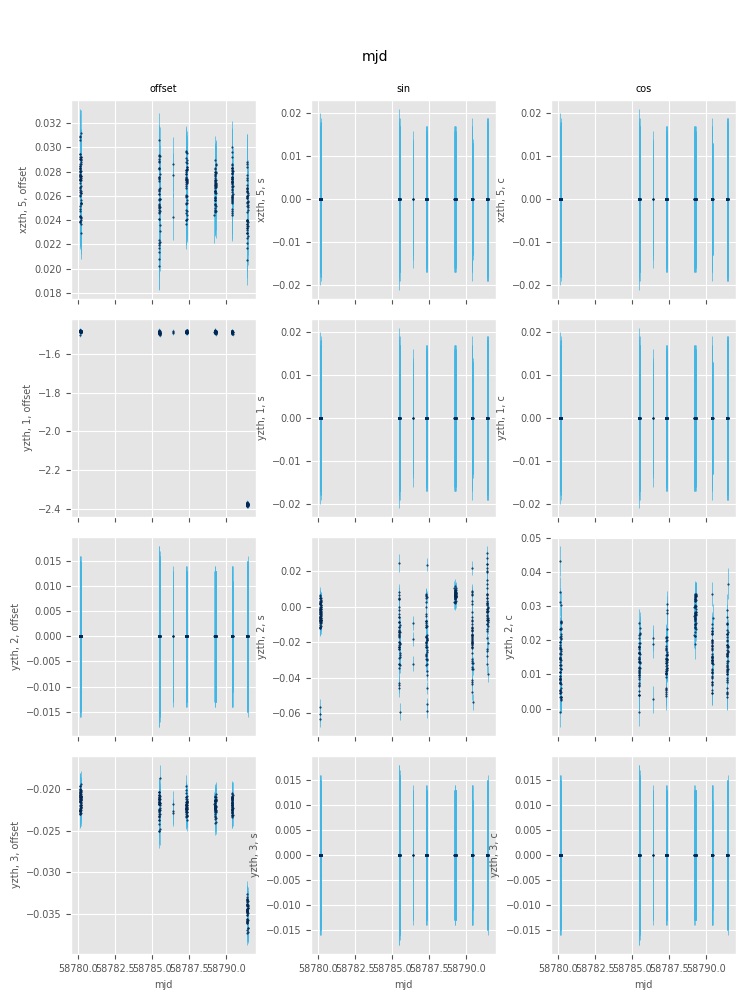
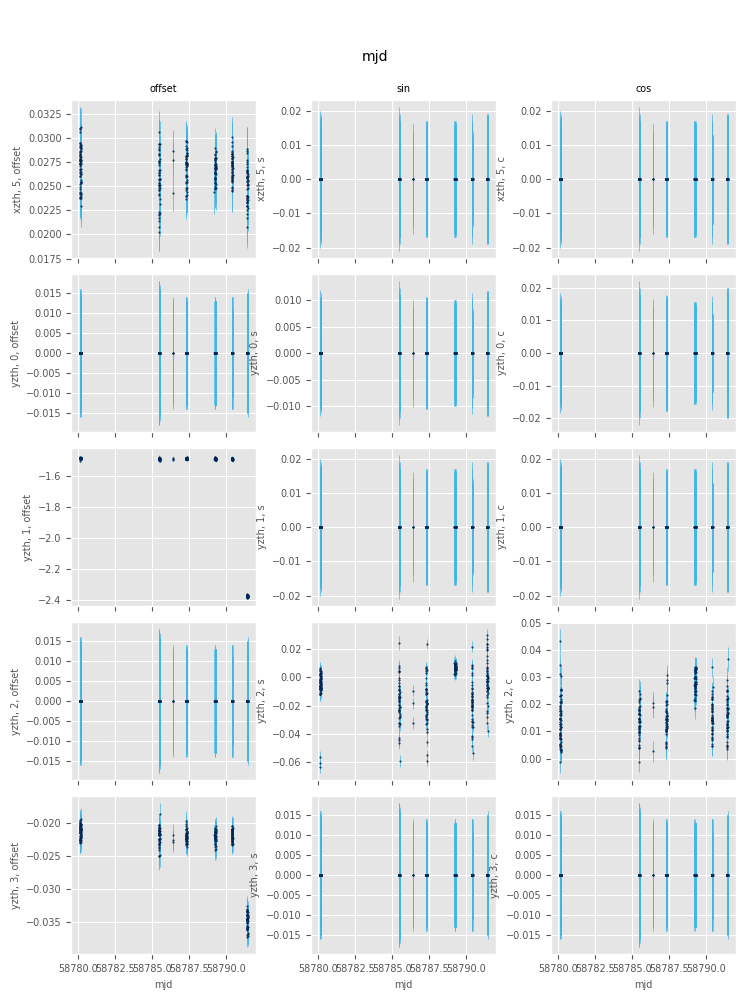
filter for success

diff --git a/python/munge.py b/python/munge.py
@@ -10,6 +10,7 @@ from argparse import ArgumentParser
 import logging
 from collections import OrderedDict
 
+import numpy as np
 import pandas as pd
 from astropy.io import fits
 
@@ -32,6 +33,9 @@ HEADER_PARAMS = {
     'pressure': 'PRESSURE',
 }
 
+MIN_NUM_FIDUCIALS = 110
+MAX_POS_RMS = 0.05
+
 # exception classes
 
 # interface functions
@@ -43,9 +47,22 @@ def munge(qcinv_fname, fits_dir, zth_dir):
     exp_params = qcinv.merge(fits_params, right_index=True, left_index=True)
 
     fids = exp_params.merge(zths, left_index=True, right_index=True)
+
+    def read_num_fiducials(expid):
+        fiducials = read_fvcMerge(expid, zth_dir)
+        num_fiducials = len(fiducials)
+        return num_fiducials
+
+    fids['num_fiducials'] = fids['expid'].map(read_num_fiducials)
+    fids['successful'] = fids.eval(f'(num_fiducials>={MIN_NUM_FIDUCIALS}) & (xrms <= {MAX_POS_RMS}) & (yrms <= {MAX_POS_RMS})')
+    good_exp_params = exp_params.loc[fids['expid']]
+    good_exp_params['successful'] = fids['successful'] 
+    
     fids.columns = pd.MultiIndex.from_tuples(
         [x if len(x) == 3 and not isinstance(x, str) else (x, ) for x in fids.columns])
-    return exp_params, fids
+
+    
+    return good_exp_params, fids
 
 # classes
 
@@ -153,12 +170,25 @@ def read_zths(zth_dir, qcinv):
     return zths
 
 
+def read_fvcMerge(expid, data_dir):
+    fname = f'{data_dir}/{expid}/fvcMerge-{expid}.dat'
+    try:
+        fiducials = pd.read_csv(fname, sep="\s+")
+    except:
+        logging.exception(f'Could not read {fname}')
+        return pd.DataFrame()
+
+    return fiducials
+
+
 def main():
     parser = ArgumentParser(description="Read the qcinv data file")
     parser.add_argument("qcinv_fname", type=str,
                         help="file with results of qcinv")
     parser.add_argument("data_dir", type=str, help="data directory")
     parser.add_argument("out_fname", type=str, help="file to write")
+    parser.add_argument("--exp_params_fname", type=str, default=None, help="file to write")
+    parser.add_argument("--fids_fname", type=str, default=None, help="file to write")
     args = parser.parse_args()
 
     qcinv_fname = args.qcinv_fname
@@ -168,6 +198,27 @@ def main():
     exp_params, fids = munge(qcinv_fname, data_dir, data_dir)
     exp_params.to_hdf(out_fname, 'exp_params')
     fids.to_hdf(out_fname, 'fids')
+
+    if args.exp_params_fname is not None:
+        exp_params.to_csv(args.exp_params_fname, sep="\t", header=True, index=False)
+
+    if args.fids_fname is not None:
+        flat_fids = fids.copy()
+        def colstr(col):
+            colname = col[0]
+            for c in col[1:]:
+                if c is None:
+                    continue
+                elif isinstance(c, str):
+                    colname = colname + "," + c
+                elif np.isfinite(c) and c == int(c):
+                    colname = colname + "," + str(int(c))
+                elif str(c) != 'nan':
+                    colname = colname + "," + str(c)
+            return colname
+        
+        flat_fids.columns = [colstr(col) for col in flat_fids.columns.values]
+        flat_fids.to_csv(args.fids_fname, sep="\t", header=True, index=False)
 
     return 0
 

diff --git a/python/plot_distortions.py b/python/plot_distortions.py
@@ -16,11 +16,13 @@ import matplotlib.pyplot as plt
 
 
 DISTORTION_NAMES = OrderedDict((
+    (('xzth', 0), "xzth,0"),
     (('xzth', 1), "scale factor (half mm at edge)"),
     (('xzth', 2), "E modes"),
     (('xzth', 3), "3rd order distortion"),
     (('xzth', 4), "higher order E modes"),
     (('xzth', 5), "5th order distortion"),
+    (('yzth', 0), "yzth,0"),
     (('yzth', 1), "rotation (half mm at edge)"),
     (('yzth', 2), "B modes"),
     (('yzth', 3), "spiral rotation")
@@ -32,8 +34,8 @@ DISTORTION_TERM_NAMES = OrderedDict((
     ('c', 'cos')
 ))
 
-PAGE_PARAMS = {1: tuple(DISTORTION_NAMES.keys())[:4],
-               2: tuple(DISTORTION_NAMES.keys())[4:]}
+PAGE_PARAMS = {1: tuple(DISTORTION_NAMES.keys())[:5],
+               2: tuple(DISTORTION_NAMES.keys())[5:]}
 
 HUMAN_LABELS = False
 
@@ -118,10 +120,11 @@ def main():
     out_fname = args.out_fname
 
     logging.debug(f"Reading exp_params from {in_fname}")
-    exp_params = pd.read_hdf(in_fname, 'exp_params')
+    exp_params = pd.read_hdf(in_fname, 'exp_params').query('successful')
 
     logging.debug(f"Reading fids from {in_fname}")
     fids = pd.read_hdf(in_fname, 'fids')
+    fids = fids.loc[fids[('successful', None, None)]]
 
     stitle = 'parallactic angle' if xparam == 'q' else xparam
     fig, axes = plot_fids(exp_params, fids, xparam, params, stitle)

diff --git a/python/plot_petals.py b/python/plot_petals.py
@@ -98,10 +98,12 @@ def main():
     out_fname = args.out_fname
 
     logging.debug(f"Reading exp_params from {in_fname}")
-    exp_params = pd.read_hdf(in_fname, 'exp_params')
+    exp_params = pd.read_hdf(in_fname, 'exp_params').query('successful')
     
     logging.debug(f"Reading fids from {in_fname}")
     fids = pd.read_hdf(in_fname, 'fids')
+    fids = fids.loc[fids[('successful', None, None)]]
+
     
     stitle = 'parallactic angle' if xparam == 'q' else xparam
     fig, axes = plot_petals(exp_params, fids, xparam, petals, stitle)
